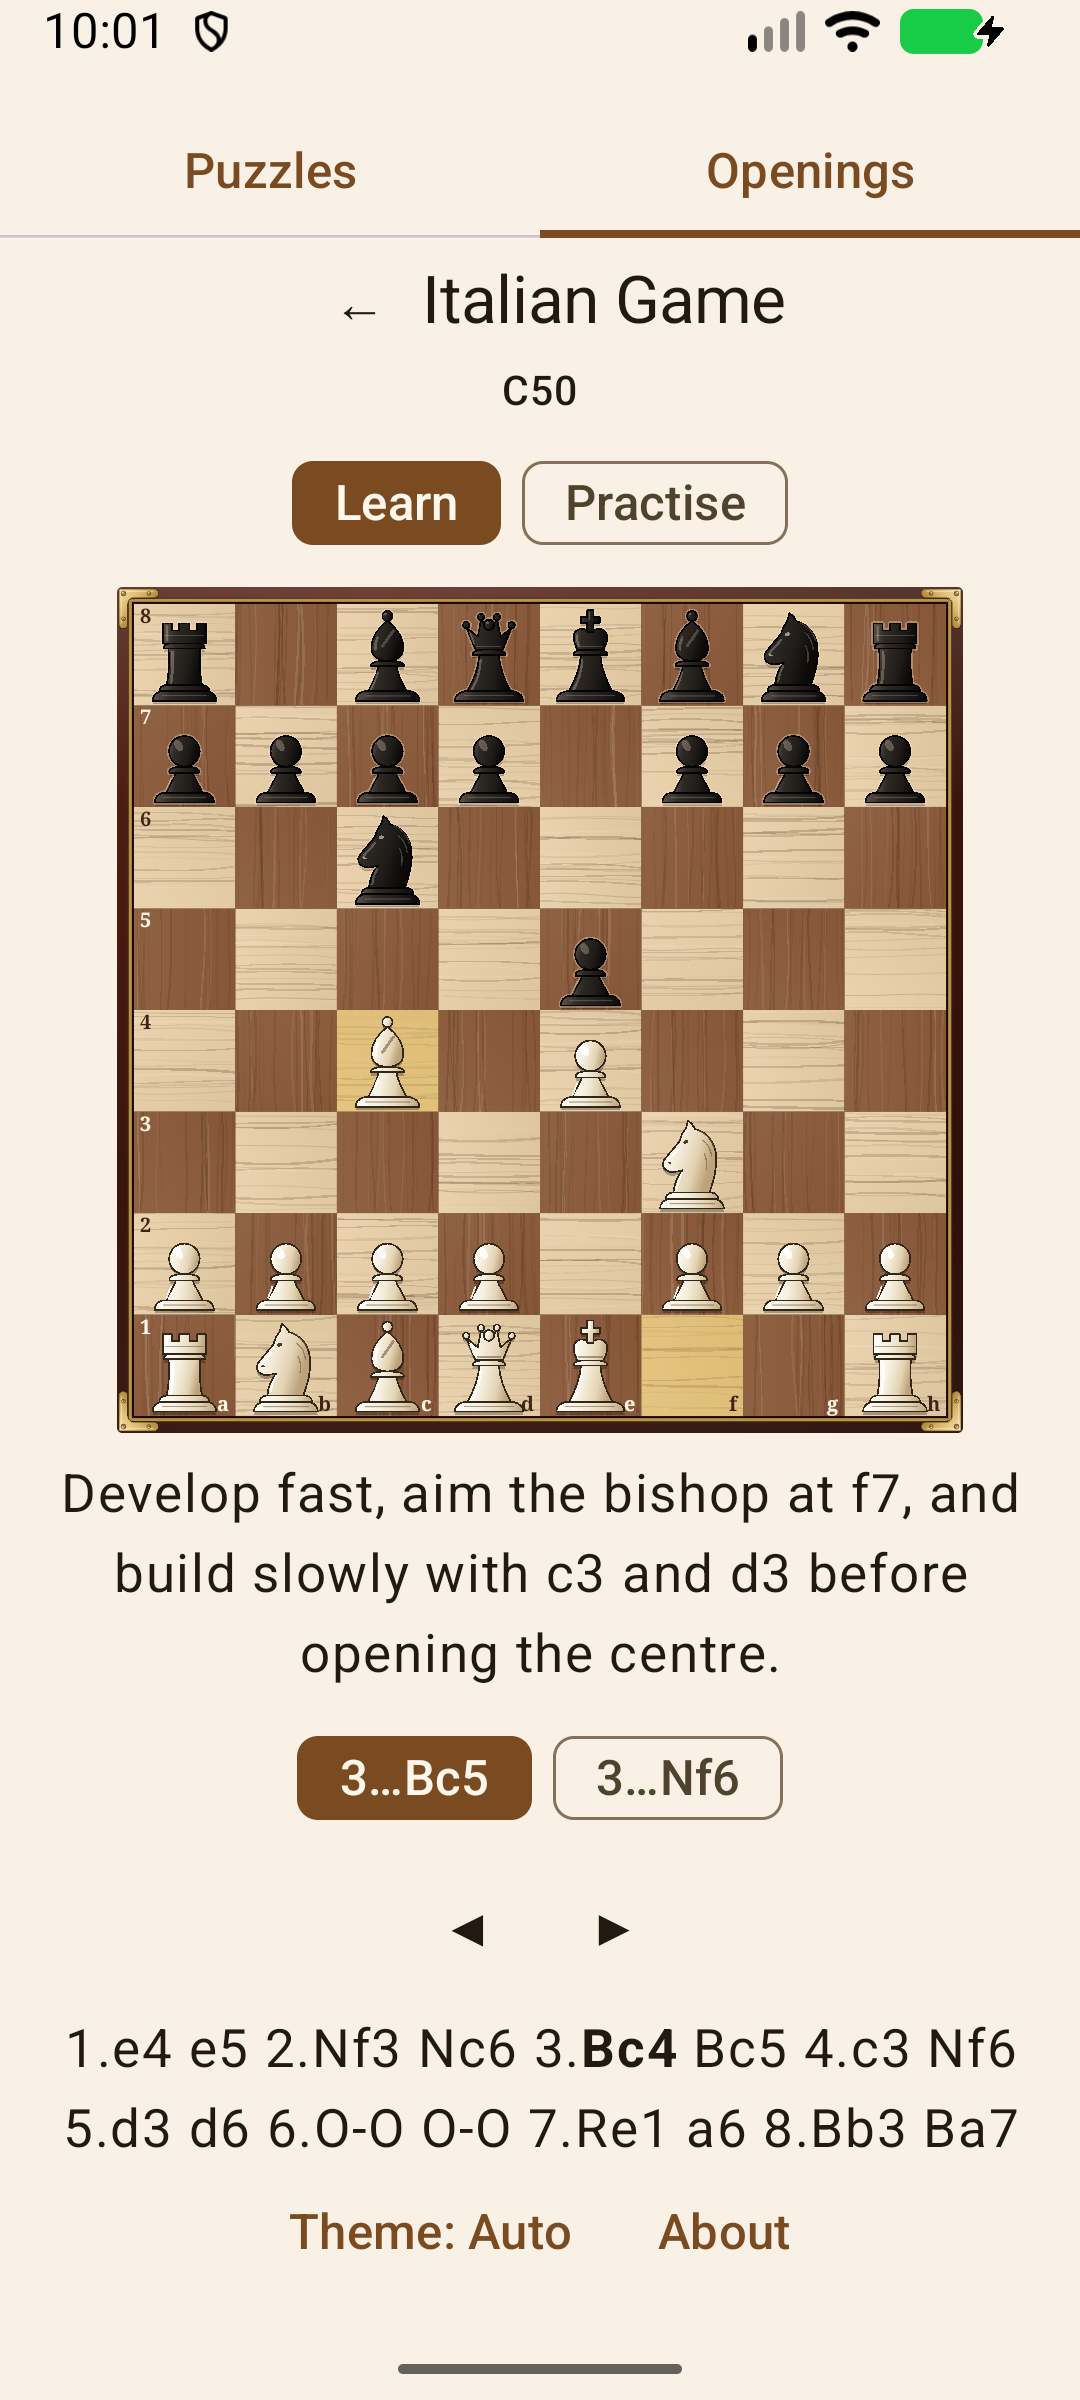
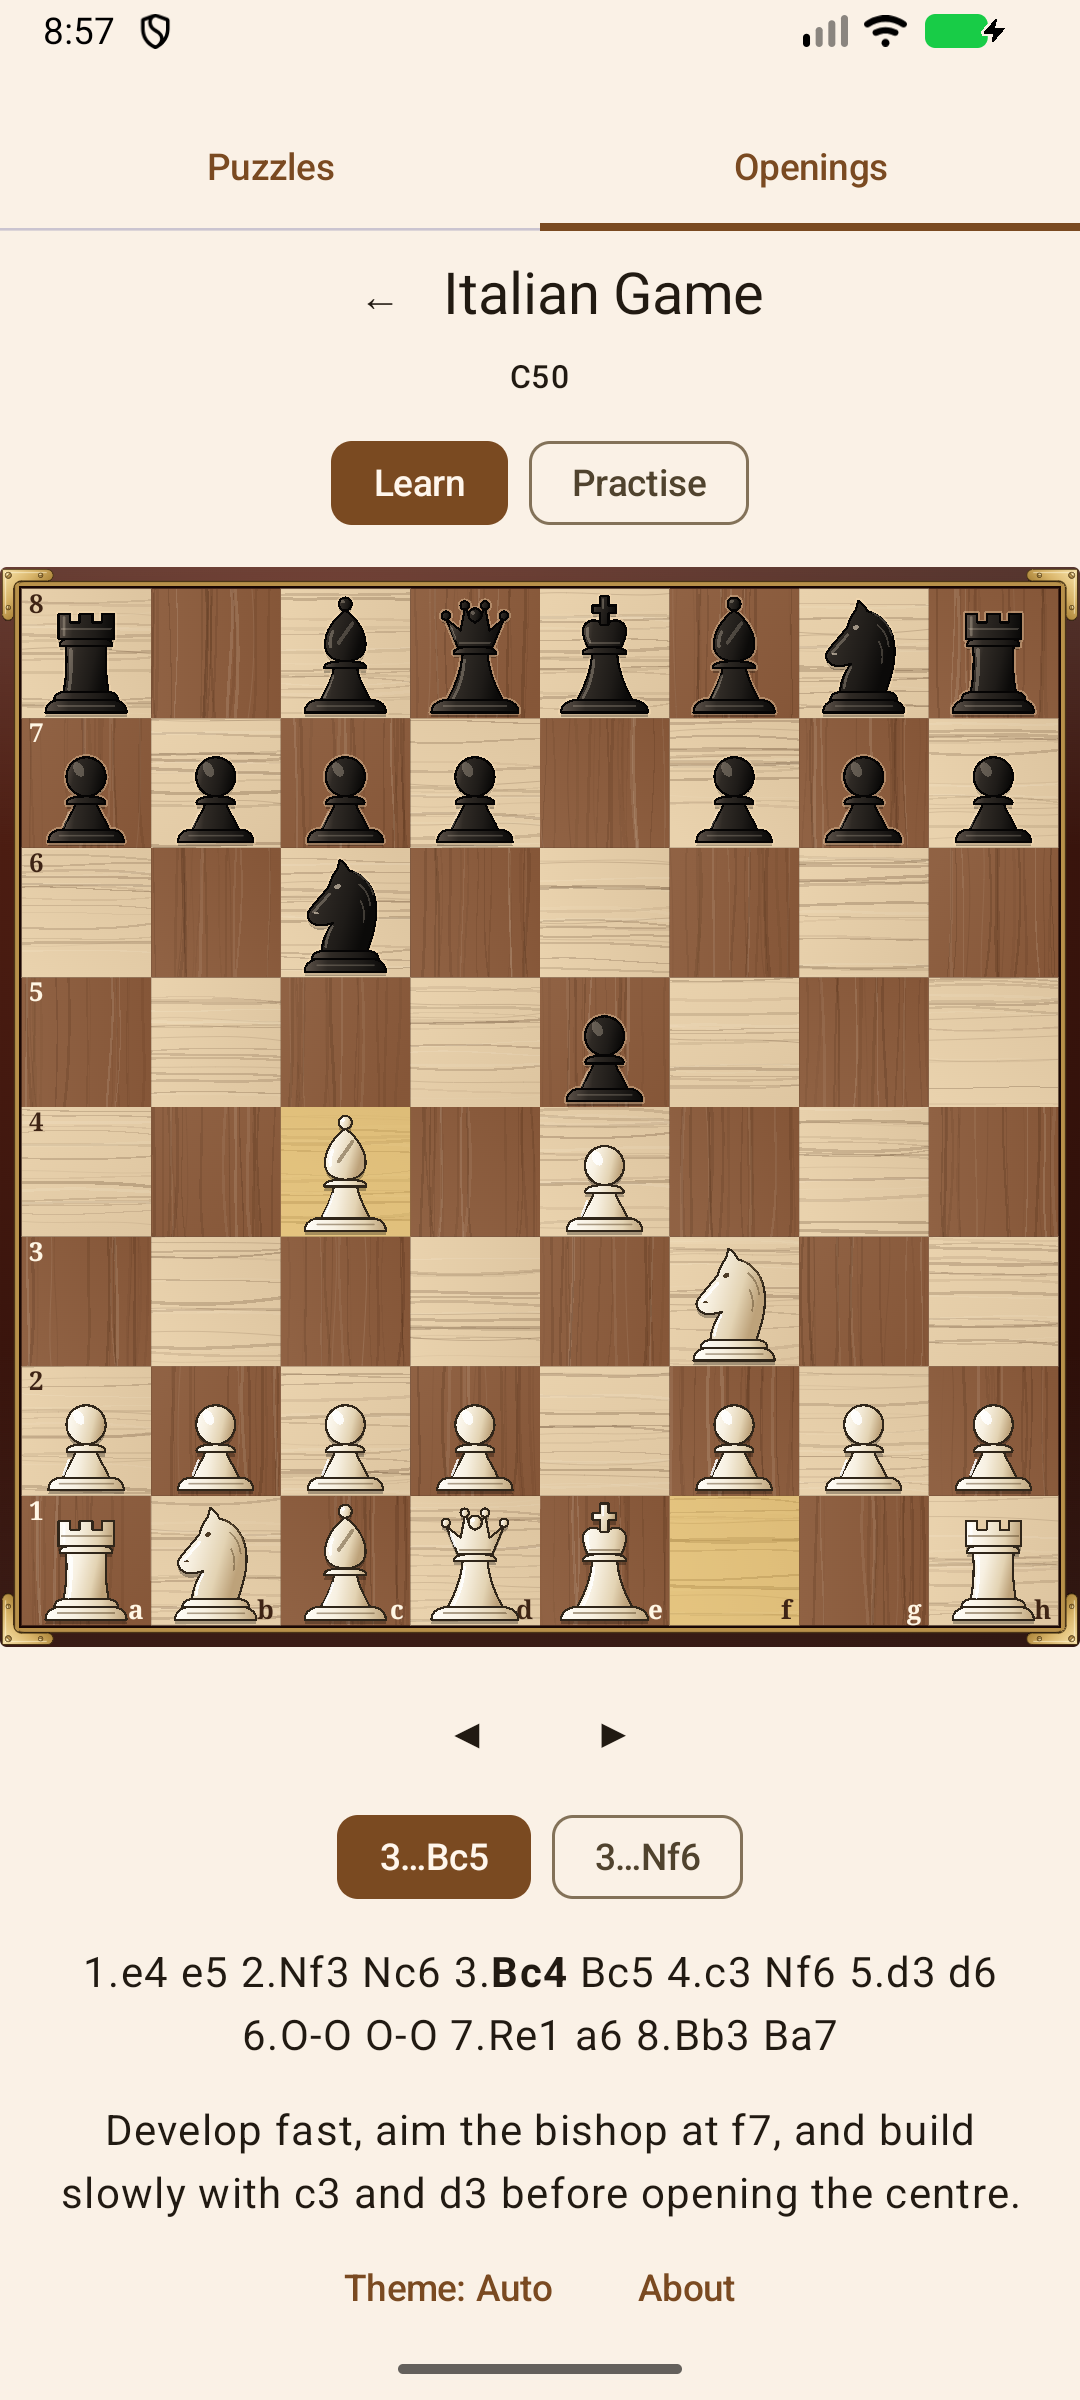
fix: the Learn board spans the phone's width (#64)
Upright, the shared layout fitted the board into the height the other
rows left, and Learn has many rows: at the owner's 1.3x font on a 412dp
phone the board came out 180dp wide. The opening screen now lets its
column scroll and gives the board the full width, and Learn puts the step
buttons and branch chips right under the board, then the move list and
the idea. A piece dragged straight up still moves rather than scrolling
the page. The puzzle screen is unchanged.

Prepares the 0.5.17 release: VERSION_NAME 0.5.17, VERSION_CODE 5017, its
changelog, and a fresh Openings screenshot.

Claude-Session: https://claude.ai/code/session_015DTcs4n6vbQGhzc9iZ1YHV

diff --git a/app/src/test/java/dk/cocode/chess/ui/OpeningLearnSizeTest.kt b/app/src/test/java/dk/cocode/chess/ui/OpeningLearnSizeTest.kt
@@ -1,0 +1,61 @@
+package dk.cocode.chess.ui
+
+import androidx.activity.ComponentActivity
+import androidx.compose.foundation.layout.Spacer
+import androidx.compose.foundation.layout.height
+import androidx.compose.ui.Modifier
+import androidx.compose.ui.test.getUnclippedBoundsInRoot
+import androidx.compose.ui.test.junit4.createAndroidComposeRule
+import androidx.compose.ui.test.onNodeWithContentDescription
+import androidx.compose.ui.test.onNodeWithTag
+import androidx.compose.ui.test.onRoot
+import androidx.compose.ui.unit.dp
+import dk.cocode.chess.core.data.openings.Openings
+import dk.cocode.chess.core.engine.OpeningTree
+import dk.cocode.chess.ui.board.BOARD_TEST_TAG
+import dk.cocode.chess.ui.theme.ChessTheme
+import dk.cocode.chess.viewmodel.OpeningMode
+import dk.cocode.chess.viewmodel.OpeningUiState
+import org.junit.Assert.assertEquals
+import org.junit.Assert.assertTrue
+import org.junit.Rule
+import org.junit.Test
+import org.junit.runner.RunWith
+import org.robolectric.RobolectricTestRunner
+import org.robolectric.annotation.Config
+
+/**
+ * Learn on a phone held upright at a 1.3× font, like the owner's Galaxy A52s: the rows around the
+ * board used to squeeze it to about two thirds of the width. It must span the screen, with the
+ * ◀ ▶ buttons still in view without scrolling.
+ */
+@RunWith(RobolectricTestRunner::class)
+@Config(qualifiers = "w412dp-h780dp", fontScale = 1.3f)
+class OpeningLearnSizeTest {
+    @get:Rule
+    val composeRule = createAndroidComposeRule<ComponentActivity>()
+
+    @Test fun learnBoardSpansThePhoneWithItsStepButtonsInView() {
+        val italian = Openings.all.first { it.id == "italian" }
+        val tree = OpeningTree(italian)
+        composeRule.setContent {
+            ChessTheme(darkTheme = false) {
+                OpeningScreenContent(
+                    state = OpeningUiState(
+                        board = tree.start.toRows(), openingId = italian.id, mode = OpeningMode.LEARN,
+                        lineNames = tree.lineNames, line = 0, ply = 0, moveSan = tree.plies(0).map { it.san },
+                    ),
+                    opening = italian, onBack = {}, onMode = {}, onLine = {}, onStep = {},
+                    onSquareTap = {}, onDragStart = {}, onDragEnd = {}, onAgain = {},
+                    tabs = { Spacer(Modifier.height(48.dp)) }, // the Puzzles | Openings row
+                )
+            }
+        }
+        val screen = composeRule.onRoot().getUnclippedBoundsInRoot()
+        val board = composeRule.onNodeWithTag(BOARD_TEST_TAG).getUnclippedBoundsInRoot()
+        assertEquals(screen.right.value - screen.left.value, board.right.value - board.left.value, 1f)
+        val next = composeRule.onNodeWithContentDescription("Next move").getUnclippedBoundsInRoot()
+        assertTrue("Next move at ${next.top} under the board at ${board.bottom}", next.top >= board.bottom)
+        assertTrue("Next move at ${next.bottom} of ${screen.bottom}", next.bottom <= screen.bottom)
+    }
+}

diff --git a/app/src/main/java/dk/cocode/chess/ui/BoardScaffold.kt b/app/src/main/java/dk/cocode/chess/ui/BoardScaffold.kt
@@ -10,6 +10,7 @@ import androidx.compose.foundation.layout.Spacer
 import androidx.compose.foundation.layout.WindowInsets
 import androidx.compose.foundation.layout.fillMaxHeight
 import androidx.compose.foundation.layout.fillMaxSize
+import androidx.compose.foundation.layout.fillMaxWidth
 import androidx.compose.foundation.layout.height
 import androidx.compose.foundation.layout.padding
 import androidx.compose.foundation.layout.safeDrawing
@@ -32,6 +33,7 @@ import dk.cocode.chess.viewmodel.BoardState
  * top-of-screen slot, [body] the right panel / bottom-of-screen slot; each is told whether it must
  * lay its own rows out as a stacked column — only true when it stands alone beside the board in its
  * own panel ([BoardLayout.BETWEEN_PANELS]), never when it shares a panel or a column with the other.
+ * [scrollWhenStacked] trades the upright fit for a full-width board with the rows below it scrolling.
  */
 @Composable
 fun BoardScaffold(
@@ -42,6 +44,7 @@ fun BoardScaffold(
     tabs: @Composable () -> Unit,
     header: @Composable ColumnScope.(stacked: Boolean) -> Unit,
     body: @Composable ColumnScope.(stacked: Boolean) -> Unit,
+    scrollWhenStacked: Boolean = false,
 ) {
     Scaffold(contentWindowInsets = WindowInsets.safeDrawing) { padding ->
         BoxWithConstraints(Modifier.padding(padding).fillMaxSize()) {
@@ -61,14 +64,19 @@ fun BoardScaffold(
                     }
                 }
                 // STACKED. An `else`: as the lambda's last expression an exhaustive `when` hides an unreachable throw.
+                // With [scrollWhenStacked] the board takes the full width and the rows below it scroll;
+                // otherwise it is the largest square that fits the height the other rows leave.
                 else -> Column(
-                    Modifier.fillMaxSize().padding(vertical = 16.dp),
+                    Modifier.fillMaxSize()
+                        .then(if (scrollWhenStacked) Modifier.verticalScroll(rememberScrollState()) else Modifier)
+                        .padding(vertical = 16.dp),
                     horizontalAlignment = Alignment.CenterHorizontally,
                 ) {
                     tabs()
                     header(false)
                     Spacer(Modifier.height(8.dp))
-                    ChessBoard(state, onSquareTap, onDragStart, onDragEnd, Modifier.weight(1f, fill = false))
+                    val boardSize = if (scrollWhenStacked) Modifier.fillMaxWidth() else Modifier.weight(1f, fill = false)
+                    ChessBoard(state, onSquareTap, onDragStart, onDragEnd, boardSize)
                     Spacer(Modifier.height(8.dp))
                     body(false)
                 }

diff --git a/app/src/main/java/dk/cocode/chess/ui/OpeningLearnPanel.kt b/app/src/main/java/dk/cocode/chess/ui/OpeningLearnPanel.kt
@@ -19,7 +19,10 @@ import androidx.compose.ui.unit.dp
 import dk.cocode.chess.core.model.Opening
 import dk.cocode.chess.viewmodel.OpeningUiState
 
-/** Learn mode: the idea, branch chips (when there is more than one line), ◀ ▶ stepping and the move list. */
+/**
+ * Learn mode: ◀ ▶ stepping and the branch chips (when there is more than one line) first, right under
+ * the board where the thumb is, then the move list and the idea, which may scroll below it.
+ */
 @Composable
 internal fun OpeningLearnPanel(
     state: OpeningUiState,
@@ -28,15 +31,6 @@ internal fun OpeningLearnPanel(
     onStep: (Int) -> Unit,
     stacked: Boolean,
 ) {
-    Text(opening.idea, modifier = TextInset, textAlign = TextAlign.Center)
-    if (state.lineNames.size > 1) {
-        Spacer(Modifier.height(8.dp))
-        ChipRow(
-            stacked, state.lineNames.indices.toList(),
-            selected = { it == state.line }, onSelect = onLine, label = { state.lineNames[it] },
-        )
-    }
-    Spacer(Modifier.height(8.dp))
     Row(horizontalArrangement = Arrangement.spacedBy(8.dp)) {
         IconButton(
             onClick = { onStep(-1) }, enabled = state.ply > 0,
@@ -47,8 +41,16 @@ internal fun OpeningLearnPanel(
             modifier = Modifier.semantics { contentDescription = "Next move" },
         ) { Text("▶") }
     }
+    if (state.lineNames.size > 1) {
+        ChipRow(
+            stacked, state.lineNames.indices.toList(),
+            selected = { it == state.line }, onSelect = onLine, label = { state.lineNames[it] },
+        )
+    }
     Spacer(Modifier.height(8.dp))
     Text(moveListText(state.moveSan, state.ply), modifier = TextInset, textAlign = TextAlign.Center)
+    Spacer(Modifier.height(12.dp))
+    Text(opening.idea, modifier = TextInset, textAlign = TextAlign.Center)
 }
 
 /** "1.e4 e5 2.Nf3 …" with the current ply's move bold; only White's moves carry the move number. */

diff --git a/app/src/main/java/dk/cocode/chess/ui/OpeningScreenContent.kt b/app/src/main/java/dk/cocode/chess/ui/OpeningScreenContent.kt
@@ -38,5 +38,8 @@ fun OpeningScreenContent(
             }
             PuzzleSettings(themeMode, onThemeToggle, onAbout)
         },
+        // Learn's many rows would squeeze the board on a phone; Practise's few fit, and fitting keeps its
+        // feedback and Again in view on a small screen.
+        scrollWhenStacked = state.mode == OpeningMode.LEARN,
     )
 }
